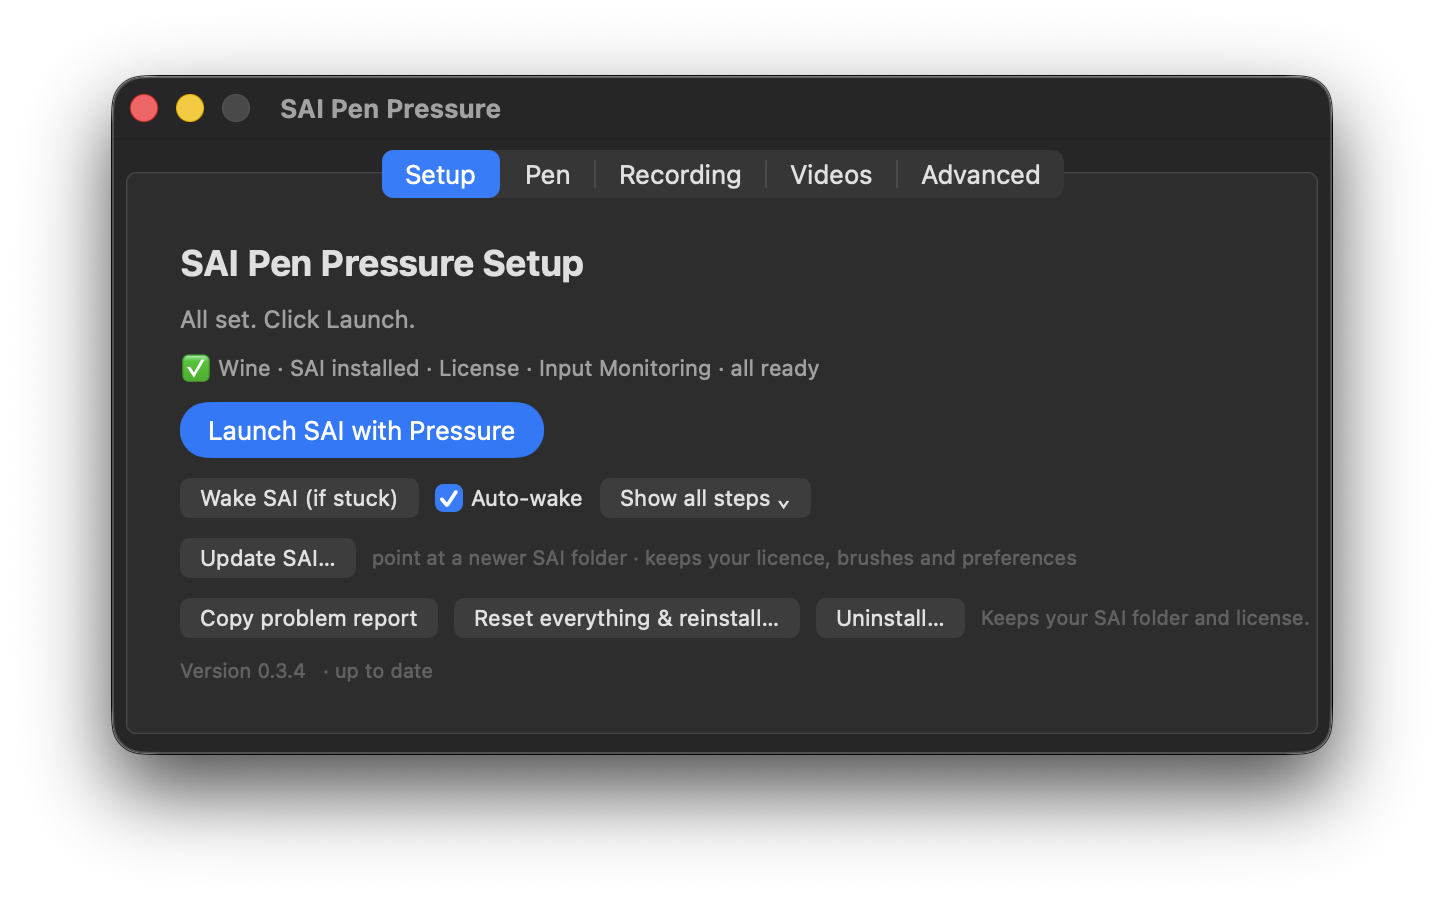
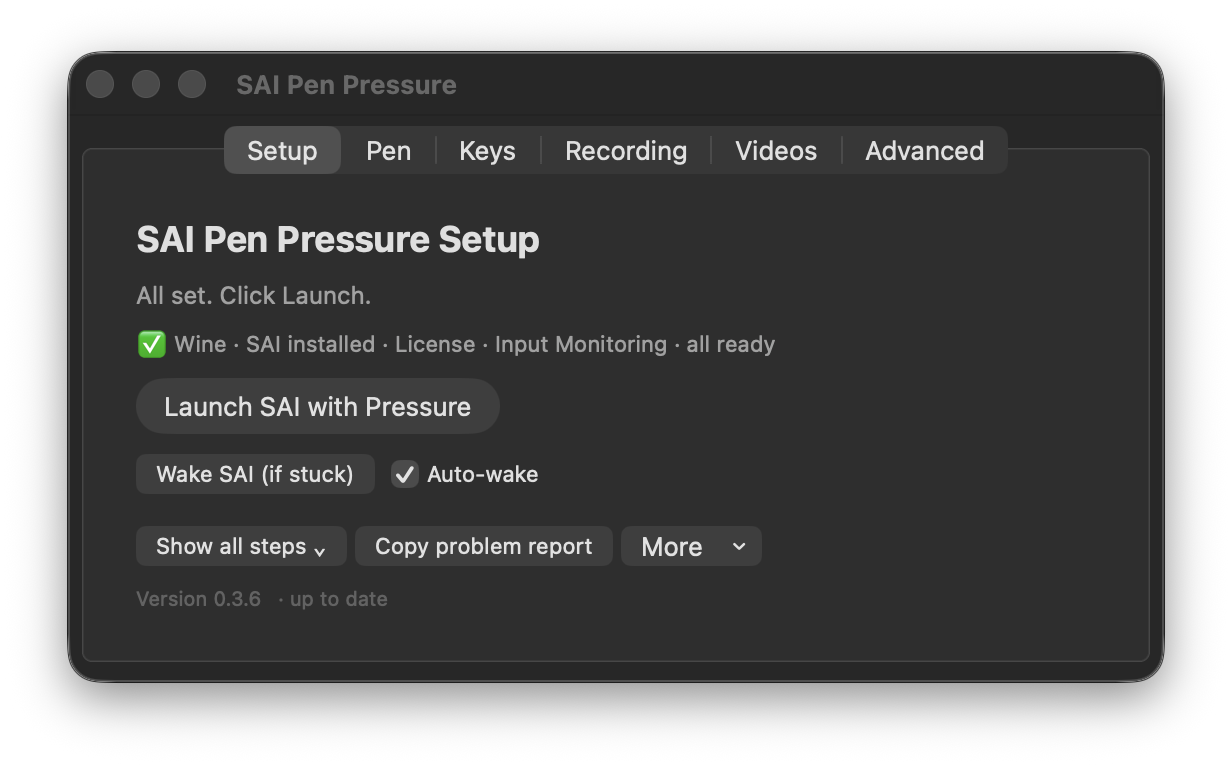
Changelog, docs and screenshots for 0.3.6

Changed region(s): [[0.0308, 0.0601, 0.9562, 0.9308], [0.4318, 0.5405, 0.5552, 0.5705]]

diff --git a/README.md b/README.md
@@ -23,25 +23,27 @@ The result: pressure-sensitive strokes that taper with how hard you press.
 
 ## What it looks like
 
-Five tabs, one window.
+Six tabs, one window.
 
 <p align="center">
-  <img src="docs/assets/screenshots/setup.png" alt="Setup tab: Wine, SAI, licence and Input Monitoring all ready on one line, with Launch, Copy problem report, and the version with its update check" width="49%">
+  <img src="docs/assets/screenshots/setup.png" alt="Setup tab: everything ready on one line, Launch, Wake SAI, and a quiet row with Copy problem report and a More menu" width="49%">
   <img src="docs/assets/screenshots/pen.png" alt="Pen tab: pressure levels, pen feel, and a live test showing what is being sent and what is arriving inside Wine" width="49%">
 </p>
 <p align="center">
-  <img src="docs/assets/screenshots/recording.png" alt="Recording tab: canvas timelapse settings" width="49%">
-  <img src="docs/assets/screenshots/videos.png" alt="Videos tab: one video per drawing, with play, export, rebuild and rename" width="49%">
+  <img src="docs/assets/screenshots/keys.png" alt="Keys tab: what each Option and Command key sends to SAI, with a box to try keys in" width="49%">
+  <img src="docs/assets/screenshots/recording.png" alt="Recording tab: canvas timelapse on or off and where videos are saved" width="49%">
 </p>
 <p align="center">
+  <img src="docs/assets/screenshots/videos.png" alt="Videos tab: one video per drawing, with Play, Export and a More menu" width="49%">
   <img src="docs/assets/screenshots/advanced.png" alt="Advanced tab: developer mode, automatic updates, the logs, a health check and Copy problem report" width="49%">
 </p>
 
 **Setup** gets SAI running and tells you which of the four prerequisites are missing.
-**Update SAI…** swaps in a newer SAI build without touching your licence, brushes or preferences —
+**More → Update SAI…** swaps in a newer SAI build without touching your licence, brushes or preferences —
 useful because Ver.2 is a rolling preview.
 **Pen** is pressure levels, pen feel and the response curve, and a live test that shows what is
 being sent alongside what is actually arriving on SAI's side of the bridge.
+**Keys** sets what each ⌘ and ⌥ key sends to SAI (⌥ is Alt, for the eyedropper), with a box to try keys in.
 **Recording** is the canvas timelapse.
 **Videos** lists one video per drawing, and keeps adding to it when you come back to that drawing.
 **Advanced** is where updates install themselves if you want them to, and where the logs, a diagnostics dump and a health check live.
@@ -77,6 +79,7 @@ being sent alongside what is actually arriving on SAI's side of the bridge.
 **It behaves like a Mac app, not Windows in a box**
 
 - **⌘Z / ⌘Y / ⌘S** and the rest, rather than Ctrl — remapped inside Wine, so SAI simply sees the right keys
+- **⌥ is Alt** (hold it for the eyedropper). Each key can be changed on the **Keys** tab, for example to keep one ⌥ for typing @ or €
 - **Pinch to zoom** and **two-finger scroll to pan** on the trackpad
 - **⌃⌥⌘Space** brings back a SAI window that has gone missing, and it can do that automatically when you switch back to SAI
 
@@ -191,13 +194,19 @@ If that doesn't sort it, **[open an issue](https://github.com/ametrien/Paint-Too
 and start it with **Copy problem report** on the Setup tab:
 
 <p align="center">
-  <img src="docs/assets/screenshots/setup.png" alt="The Setup tab, with the Copy problem report button next to Reset everything and Uninstall" width="88%">
+  <img src="docs/assets/screenshots/setup.png" alt="The Setup tab, with the Copy problem report button under Launch" width="88%">
 </p>
 
 That one button collects everything needed to help: your Mac and chip, macOS and Wine versions,
 your tablet and how it is connected, whether Wine is loading the pressure bridge or ignoring it,
 what SAI last received, and the recent log. Paste it into the issue and there is usually nothing
 else to gather.
+
+**Please write issues in English.** A machine translation (DeepL, Google Translate, ChatGPT) is
+completely fine — I just can't read Chinese, Japanese, Korean and so on, and I'd rather not guess at
+what you meant. You're welcome to paste your original text underneath the translation.
+
+请用英文提交 issue（机器翻译即可）· Issue は英語でお願いします（機械翻訳で大丈夫です）
 
 ---
 

diff --git a/CHANGELOG.md b/CHANGELOG.md
@@ -3,6 +3,35 @@
 All notable changes to this project are documented here.
 Format: [Keep a Changelog](https://keepachangelog.com/), versioning: [SemVer](https://semver.org/).
 
+## [0.3.6] — 2026-11-05
+
+### Added
+- **A Keys tab.** It sets what each ⌘ and ⌥ key sends to SAI (Ctrl, Alt, or Option for typing
+  characters), with a box to try keys in. The problem report and the health check include the
+  setting and say when Wine has not picked it up yet.
+
+### Fixed
+- **Alt works: ⌥ Option is now Alt** ([#36](https://github.com/ametrien/Paint-Tool-SAI-pen-pressure-macOS-fix/issues/36)).
+  No Mac key sent Alt at all. ⌘ was mapped to Ctrl for ⌘Z and ⌘S, and ⌘ is the only key Wine
+  sends as Alt by default, so the change that gave you the shortcuts quietly took away SAI's
+  eyedropper. Both Option keys are Alt now. On layouts that type characters with ⌥ (@ is ⌥L on a
+  German Mac), set one of them back to *types special characters* on the Keys tab. Takes effect
+  the next time SAI is launched.
+- **A key changed while SAI is open says so.** Wine reads the keys only when SAI starts, so a
+  change seemed to do nothing until SAI was restarted. The change is now written to Wine at once,
+  and while SAI is still open the Keys tab says, in orange, to save, quit and reopen it. The
+  Recording tab does the same for its on/off switch.
+- **Less small print.** The Recording tab's four grey footnotes became one line and tooltips; its
+  Make video and Discard buttons appear only when there is a recording to act on, and *Show in
+  Finder* sits next to the folder it opens. The Setup tab had three rows of identical grey
+  buttons, with Uninstall looking as ordinary as Wake. Now Wake and Auto-wake sit under Launch,
+  and one quiet row below holds *Show all steps*, *Copy problem report* and a **More** menu with
+  *Update SAI…* and, under a separator, *Reset everything & reinstall…* and *Uninstall…*.
+- **The Videos tab starts at the top.** A short list sat at the bottom of its box with empty space
+  above it. The list is now as tall as what it holds, counts read "1 session" rather than
+  "1 session(s)", and Rename, Sessions, Rebuild and Delete are under a **More** menu next to Play
+  and Export.
+
 ## [0.3.5] — 2026-09-13
 
 ### Added

diff --git a/docs/troubleshooting.md b/docs/troubleshooting.md
@@ -136,6 +136,21 @@ you only if you happened to reinstall.
 A Wine focus bug, not a pressure one. Press **⌃⌥⌘Space**, or use **Wake SAI** in the setup
 window or the menu-bar icon. Recent versions also auto-recover on returning to SAI.
 
+## Alt does nothing — the eyedropper won't come up
+
+Up to 0.3.5 no Mac key sent Alt to SAI: ⌘ was mapped to Ctrl for the shortcuts, and that was the
+only key Wine sends as Alt ([issue #36](https://github.com/ametrien/Paint-Tool-SAI-pen-pressure-macOS-fix/issues/36)).
+Since 0.3.6, **both ⌥ Option keys are Alt**. Relaunch SAI once after updating, since Wine reads
+the setting when it starts.
+
+To change it, open the **Keys** tab. Each ⌘ and ⌥ key can be set separately, and **Try a key**
+shows what a key press turns into. If your keyboard layout types characters with ⌥ (@ is ⌥L on a
+German Mac), set one Option key to *types special characters* and type them with that one: an
+Option key set to Alt can't type them in SAI.
+
+There is no need to edit `user.reg` by hand. The app writes these four values on every launch, so
+a hand edit is replaced by whatever the Keys tab says.
+
 ## Two cursors — the macOS arrow sits on top of SAI's brush cursor
 
 Known, intermittent at launch, [issue #20](https://github.com/ametrien/Paint-Tool-SAI-pen-pressure-macOS-fix/issues/20).
@@ -151,7 +166,7 @@ otherwise have to ask you for.
 
 <p align="center">
   <img src="assets/screenshots/setup.png" width="620"
-       alt="The Setup tab, with the Copy problem report button in the bottom row beside Reset everything and Uninstall">
+       alt="The Setup tab, with the Copy problem report button under Launch">
 </p>
 
 For pen problems specifically, launch with the DLL's own log enabled:

diff --git a/docs/install.md b/docs/install.md
@@ -111,7 +111,7 @@ the SAI installed inside it, your licence, brushes and preferences all live outs
 bundle and are not touched. There's no need to rebuild the prefix or to pick your SAI folder
 again.
 
-**Don't use Uninstall… to update.** That button removes the Wine prefix — which is where SAI
+**Don't use More → Uninstall… to update.** It removes the Wine prefix — which is where SAI
 itself is installed. It's for removing the installation, not for replacing the app.
 
 Upgrading is enough to pick up fixes that live deeper than the app: the bundled `wintab32.dll` is
